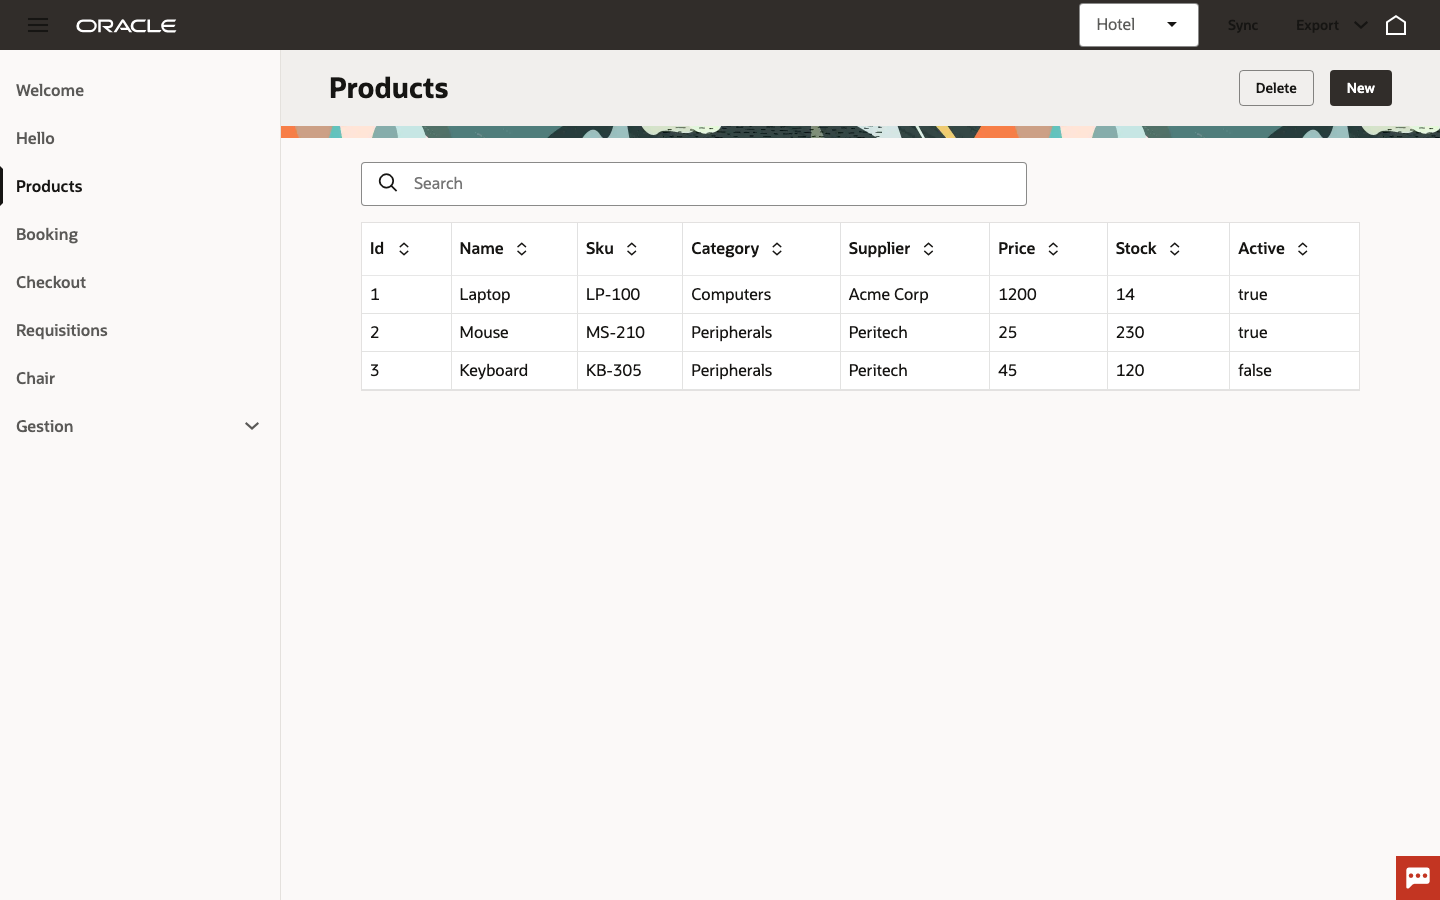
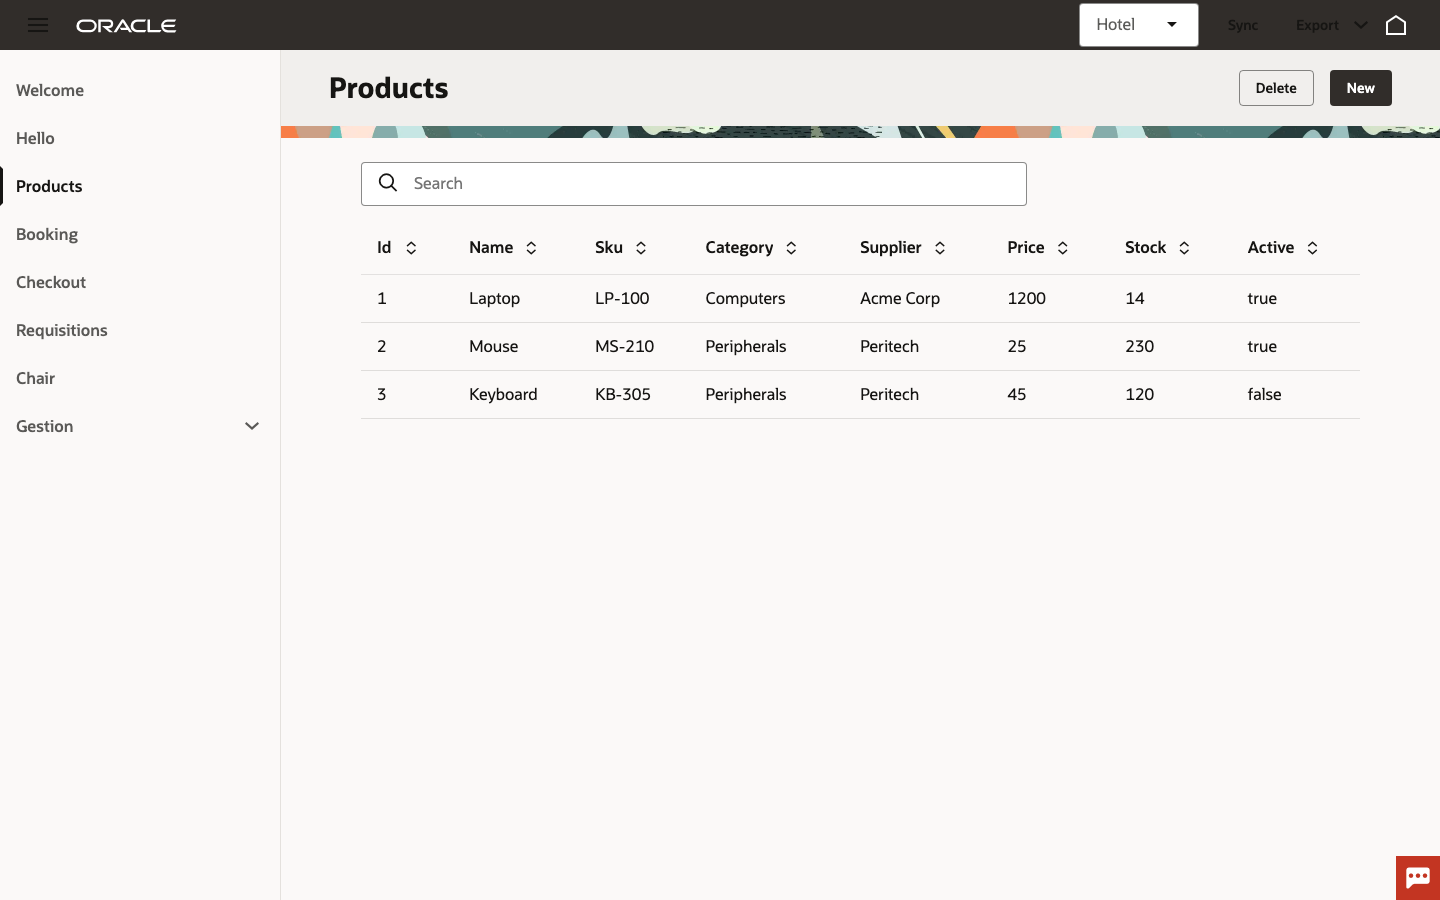
fix(vb): el grid compacto de tabla solo para cruds editables inline
Regla por nº de columnas descartada (feedback): el formato grid es para
tablas de trabajo, no de consulta — display=grid solo cuando alguna columna
del wire es editable (@InlineEditing); Products vuelve a list.

diff --git a/.dev/vb/mateu-vb/webApps/vbredwoodapp/resources/js/mateu-bridge.js b/.dev/vb/mateu-vb/webApps/vbredwoodapp/resources/js/mateu-bridge.js
@@ -443,9 +443,11 @@ define([], () => {
         const c = col.metadata || col
         return { headerText: c.label || c.id, field: c.id }
       }),
-      // densidad Redwood de la tabla en función de las columnas: pocas → 'list' (aireado),
-      // muchas → 'grid' (el formato compacto de oj-table). PRECOMPUTADO (CSP de VB).
-      display: (md.columns || []).length >= 6 ? 'grid' : 'list',
+      // densidad Redwood de la tabla: el 'grid' compacto es para tablas de TRABAJO —
+      // se activa cuando el crud es editable inline (@InlineEditing marca las columnas
+      // como editable en el wire); un listado de consulta queda en 'list' (aireado).
+      // PRECOMPUTADO (CSP de VB).
+      display: (md.columns || []).some((col) => (col.metadata || col).editable) ? 'grid' : 'list',
       rows: page.content || [],
       total: page.totalElements == null ? null : page.totalElements,
       isEmpty: (page.content || []).length === 0,

diff --git a/.dev/vb/DESIGN-NOTES.md b/.dev/vb/DESIGN-NOTES.md
@@ -532,11 +532,12 @@ consume el lateral. Los gutters del contenido los siguen poniendo las ramas (12x
 anclaje del borde derecho a la caja del shell (párrafo anterior) queda para las variantes
 SIN drawer (tabs/topbar).
 
-**Densidad de tabla por columnas (2026-07-25)**: `oj-table` trae los dos formatos Redwood —
-`display="list"` (aireado) y `display="grid"` (compacto, con rejilla). `listingOf` lo
-PRECOMPUTA en función de las columnas del wire (≥6 → grid, si no list; CSP-safe) y la tabla
-lo bindea. Demo: Products ampliado a 8 columnas (sku/category/supplier/stock) → grid (filas
-37px vs 47px). OJO ~/.m2 COMPARTIDO entre clones (opus/k3): si demo-vb deja de compilar con
+**Densidad de tabla (2026-07-25, regla RECTIFICADA por el usuario)**: `oj-table` trae los
+dos formatos Redwood — `display="list"` (aireado) y `display="grid"` (compacto, con rejilla).
+Primera regla (por nº de columnas, ≥6→grid) DESCARTADA: el grid compacto es para tablas de
+TRABAJO, no de consulta — `listingOf` precomputa `display` = grid solo cuando alguna columna
+del wire es `editable` (@InlineEditing), si no list. Products (8 columnas, no editable) →
+list. Pendiente de ver un crud @InlineEditing real sobre VB cuando se capture ese fixture. OJO ~/.m2 COMPARTIDO entre clones (opus/k3): si demo-vb deja de compilar con
 "cannot access io.mateu.uidl..." es que otro clon pisó los jars 0.0.1-MATEU — reinstalar
 backend desde este clon (cd backend && mvn clean install -DskipTests).
 
